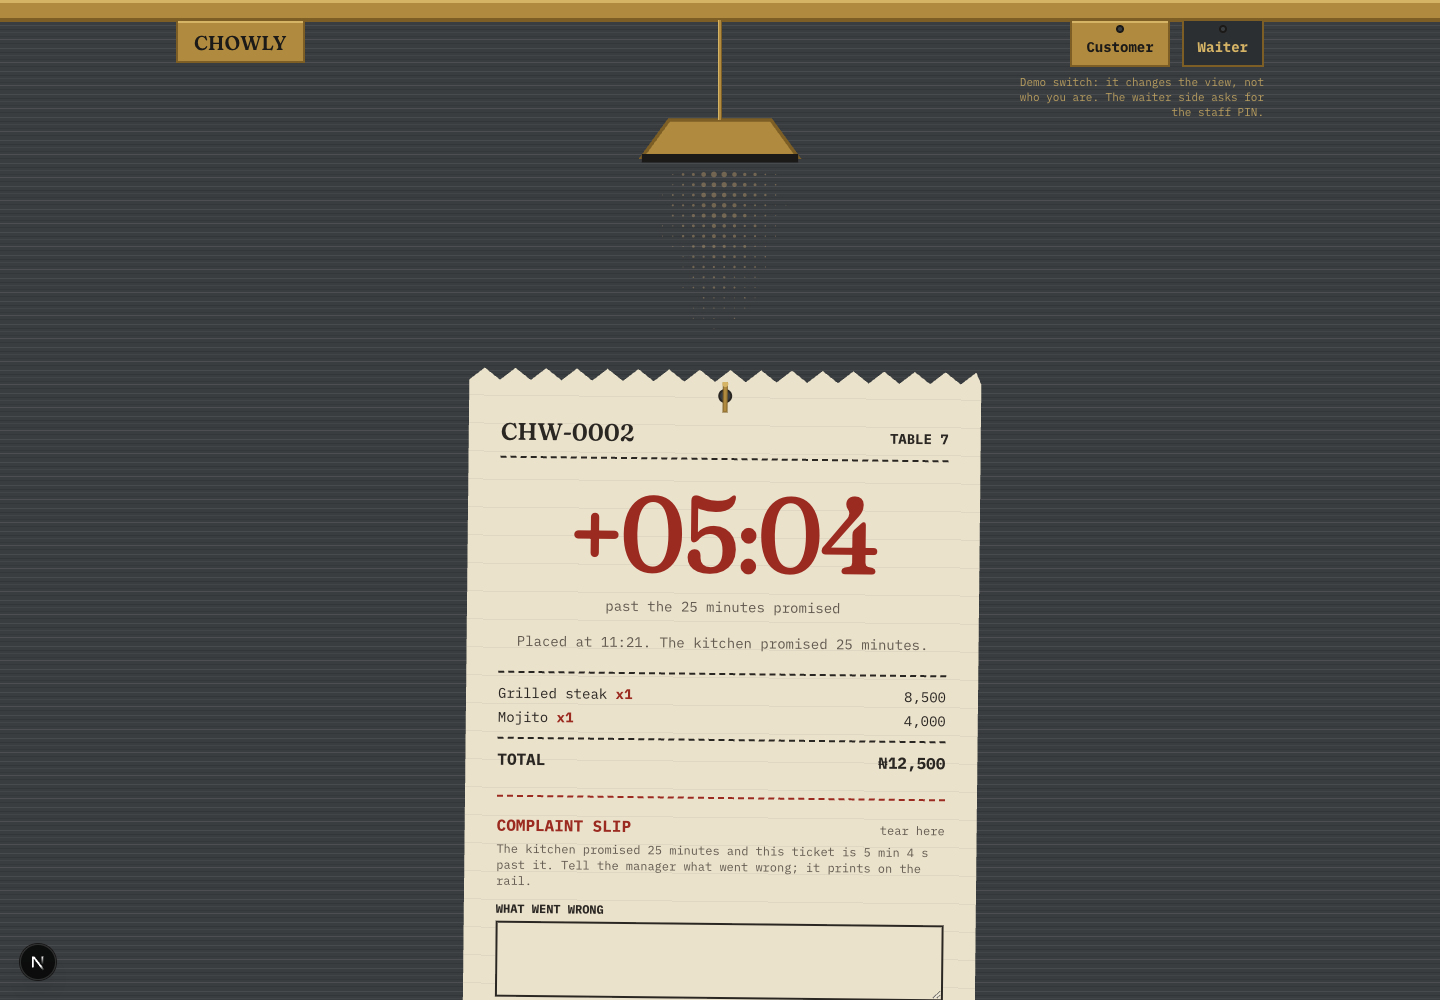
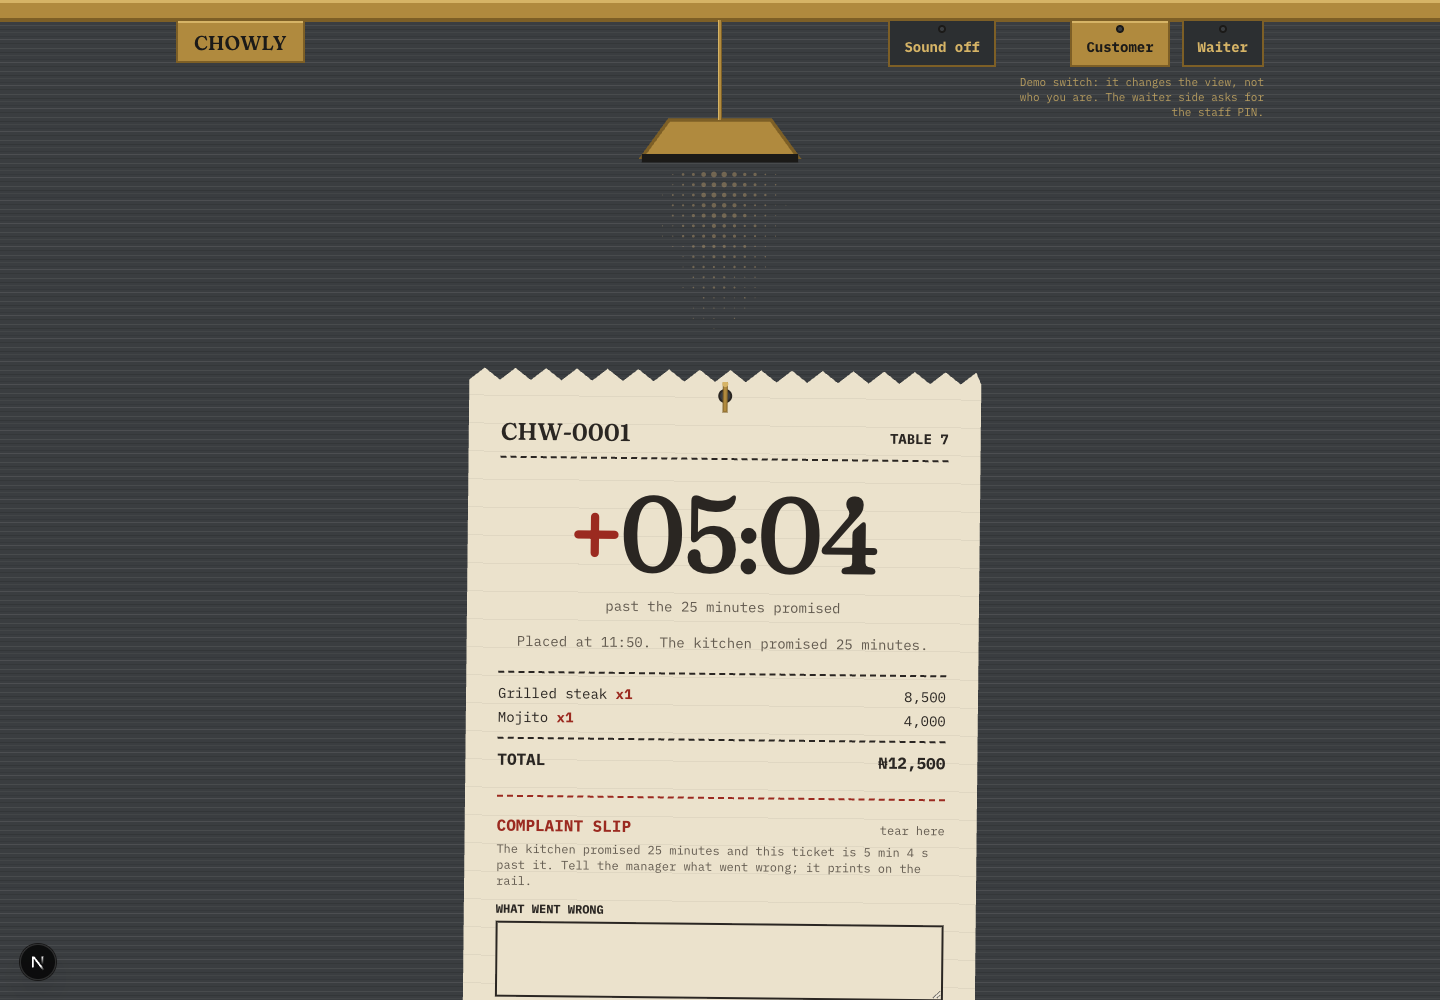
docs: screenshot every screen and state of the pass
docs/screens holds every screen and state captured against the seeded
data at 1440 and 390, with an index that names each, and the log
closes Step 4 with the corrections made along the way and the list of
what only a person on the live URL can verify.

Changed region(s): [[0.4062, 0.496, 0.625, 0.589], [0.625, 0.031, 0.6875, 0.062]]

diff --git a/docs/AI-LOG.md b/docs/AI-LOG.md
@@ -1159,3 +1159,48 @@ The full critique, with the screenshots, is `docs/directions/README.md`. The dec
   green.
 - **Not verifiable headlessly:** the sounds themselves. The cues are synthesised, so
   their character (a buzz, a tear, a tick, a thud) has to be heard.
+
+### Step 4, commit: `docs: screenshot every screen and state of the pass`
+
+- **What shipped:** the whole application in The Pass, every screen and state, on the
+  API and data unchanged from Phase 3. The five moments as built: the lamps switching on
+  over the steel and the strips dropping and printing; the ticket tearing off the
+  printer when the order is fired; the lamp as the clock, cooling and dimming the whole
+  screen as the order runs late, with the slip printing once the promise is past; the
+  rail with tickets on spikes under their own lamps and three ways to serve one; and
+  the lamp going out as the receipt tears off under the stamp. Sound off by default
+  behind a visible tag. The three direction prototypes remain at `/directions` behind an
+  index, marked noindex, as evidence of the choice; the critique that rejected two of
+  them is in `docs/directions/README.md` and in the Step 3 entry above.
+- **Corrected by hand across the step, in order:** contrast figures typed before the
+  script ran; button faces under 4.5:1; derived heat colours declared on `:root` and
+  never moving; inline transitions overriding the reduced-motion duration; an oklab
+  string read as RGB; the lamp hidden behind the ticket by a collapsed margin; red late
+  digits against the amendment; drag bounds that never sprang back; lamp bells over the
+  rail labels; the header colliding at phone width; a lamp bell over the name plate.
+  Each was found by a measurement or a screenshot, not by reasoning.
+- **Not verifiable headlessly, for the human to check on the live URL:**
+  1. The feel of the entrance: lamps on one at a time, the name warming in, strips
+     dropping and printing. Then with Reduce Motion on, everything should simply fade.
+  2. The tear on firing: the ticket pulled up off the printer, swinging toward the
+     rail, then the order page. Reduced motion: straight to the order page.
+  3. The lamp clock in real time. Fire one Zobo (a four minute promise) and watch the
+     pool shrink and cool over four minutes with no step; at 4:00 the plus sign should
+     appear and the slip print with no refresh, and nothing should flash or redden.
+     With Reduce Motion on, the light should stay warm until 4:00, then take one slow
+     step to its cooled state.
+  4. Serving from a second tab: the customer's ticket should go to "Served" within
+     three seconds and the lamp should steady.
+  5. The pull on the rail with a mouse, and with a finger on a phone: a short pull
+     springs back, a deliberate pull opens the dialog and springs back. Touch was not
+     exercised at all.
+  6. The stamp and the thud: settle a served ticket with sound on.
+  7. The four sounds: their character can only be heard.
+  8. Phone layouts beyond the captures here, in a real browser with its own chrome.
+  9. Keyboard: tab through every screen and confirm the focus ring shows on steel (lamp
+     amber) and on paper (char red).
+  10. Production: the fonts self-hosted, no CSP violations in the console, and the
+      session cookie showing Secure.
+- **Flagged for the human:** `CLAUDE.md` still describes the enamelware direction and
+  its tokens under "Design direction"; it is the rulebook and a graded file, so it is
+  not edited here. Phase 5 links `/directions` from the README and the AI-used section.

diff --git a/docs/screens/README.md b/docs/screens/README.md
@@ -1,0 +1,33 @@
+# Screens of The Pass
+
+Every screen and state of the redesigned interface, captured headlessly in Chromium
+against the dev server on the seeded data. File names carry the screen, the state and
+the viewport width.
+
+| File | Screen and state |
+|---|---|
+| `menu-1440-entrance.png` | The menu 0.7 seconds in: two lamps on, the strips still to drop |
+| `menu-1440.png`, `menu-390.png` | The menu settled, full height, at both widths |
+| `menu-1440-header.png`, `menu-390-header.png` | The rail header with the sound tag and the role tags |
+| `menu-1440-ticket.png` | Two lines on the customer's ticket with a table entered |
+| `menu-1440-firing.png` | The ticket mid-tear after the order was fired |
+| `order-waiting-1440.png` | A fresh order under a warm lamp, digits counting down |
+| `order-waiting-mid-1440.png` | Fifteen of twenty-five minutes used: the pool smaller and cooler |
+| `order-late-1440.png` | Five minutes past the promise: the plus sign, the paper aged |
+| `order-late-cold-1440.png` | Far past the promise: the lamp at its floor, straw over aged paper |
+| `order-late-slip-1440.png`, `order-late-slip-390.png` | The complaint slip printed, a slip sent, a score punched |
+| `order-punched-1440.png` | A rating of four punched into an on-time ticket |
+| `order-served-1440.png` | Served: the lamp steady, the staff named |
+| `order-settle-1440.png` | The settle section on a served ticket |
+| `order-paid-1440.png`, `order-paid-390.png` | Paid: the lamp out |
+| `order-receipt-1440.png`, `order-receipt-390.png` | The receipt torn off below with the PAID stamp and the pretend line |
+| `not-found-1440.png` | A stranger's view of someone else's order: nothing on this spike |
+| `waiter-pin-1440.png` | The waiter station asking for the PIN |
+| `waiter-rail-empty-1440.png` | The pass with nothing on it |
+| `waiter-rail-1440.png`, `waiter-rail-390.png` | Three tickets on the pass, one late under a cooled lamp |
+| `waiter-serve-dialog-1440.png` | The serving dialog opened from the keyboard |
+| `waiter-rail-drag-1440.png` | A ticket mid-pull down the rail |
+| `waiter-rail-served-1440.png` | Tickets on the served rail |
+| `directions-1440.png`, `directions-390.png` | The index of the three art directions |
+
+The three direction prototypes are captured in `../directions/`.
